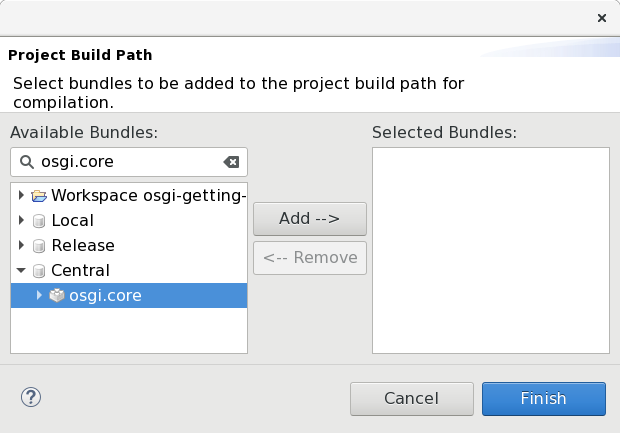
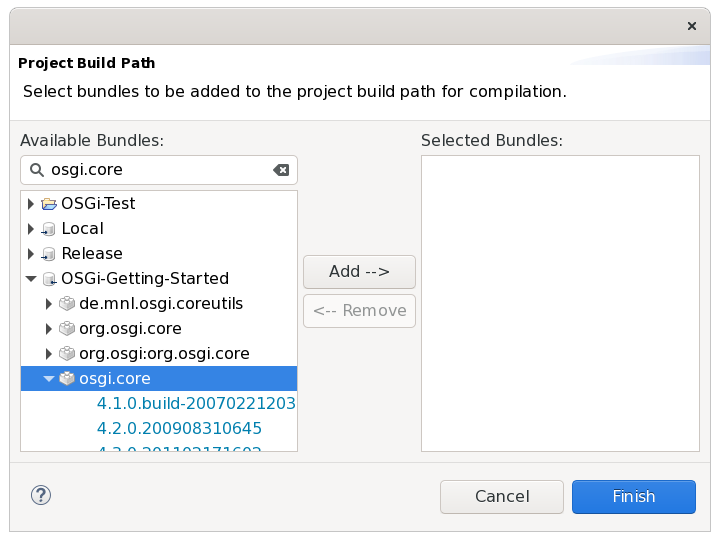
Updates with respect repository usage.

diff --git a/Repositories.md b/Repositories.md
@@ -2,7 +2,7 @@
 layout: default
 title: Repositories
 description: Describes how the OSGi tools make use of repositories and why this is not really compatible with the "Maven way".
-date: 2019-03-28 12:00:00
+date: 2022-01-09 12:00:00
 commentIssue: 15
 ---
 
@@ -82,19 +82,19 @@ repositories: `local`, `release` and `templates`. They are made known to bnd
 in `cnf/build.bnd` by these statements:
 
 ```properties
--plugin.2.Local: \
+-plugin.1.Local: \
 	aQute.bnd.deployer.repository.LocalIndexedRepo; \
 		name = Local; \
 		pretty = true; \
 		local = ${build}/local
 
--plugin.3.Templates: \
+-plugin.2.Templates: \
 	aQute.bnd.deployer.repository.LocalIndexedRepo; \
 		name = Templates; \
 		pretty = true; \
 		local = ${build}/templates
 
--plugin.4.Release: \
+-plugin.3.Release: \
 	aQute.bnd.deployer.repository.LocalIndexedRepo; \
 		name = Release; \
 		pretty = true; \
@@ -111,53 +111,42 @@ can be found in the
 [bndtools documentation](https://bndtools.org/repositories.html#local-indexed-repository).
 
 Another implementation of an OSGi repository that uses an index file is the
-`aQute.bnd.deployer.repository.FixedIndexedRepo`. Bndtools makes no attempt to modify the 
+`aQute.bnd.deployer.repository.osgi.OSGiRepository`. Bndtools makes no attempt to modify the 
 content of such a repository. The index file is specified by a URL, i.e. the data 
 can be kept on a remote server. Again, the configuration options can be found in the 
 [bndtools documentation](https://bndtools.org/repositories.html#fixed-index-repositories).
-We made use of this kind of repository in the following three cases:
+Until 2020 you could make use of such a repository to access the Apache Felix bundles:
 
 ```properties
--plugin.5.de.mnl.osgi: \
-	aQute.bnd.deployer.repository.FixedIndexedRepo; \
-		name=de.mnl.osgi; \
-		locations=https://raw.githubusercontent.com/mnlipp/de.mnl.osgi/master/cnf/release/index.xml; \
-		readonly=true
-
--plugin.6.Felix: \
-	aQute.bnd.deployer.repository.FixedIndexedRepo; \
+-plugin.5.Felix: \
+	aQute.bnd.deployer.repository.osgi.OSGiRepository; \
 		name=Felix; \
 		cache=${workspace}/cnf/cache; \
 		locations=https://felix.apache.org/obr/releases.xml
-
--plugin.7.bndtoolshub: \
-	aQute.bnd.deployer.repository.FixedIndexedRepo; \
-		name=Bndtools Hub; \
-		locations=https://raw.githubusercontent.com/bndtools/bundle-hub/master/index.xml.gz
 ```
 
 In an ideal world (from OSGi's point of view) all freely available bundles would be
 maintained in a "native" repository. Not necessarily using the simple persistence,
 because this could result in a very large index file. Rather, a server would provide
 some remotely accessible implementation of the `Repository` API. In reality, however,
-we only have a few "vendor" maintained[^badly] repositories (such as the "Felix" 
-repository) and some repositories maintained by individual projects (such as my 
-"de.mnl.osgi" repository and -- with a broader scope, but no longer maintained, 
-the "Bndtools Hub").
+there have never been more than a few "vendor" maintained[^badly] repositories 
+(such as the "Felix" repository) and some special purpose repositories maintained by
+individual projects (such as the 
+["Bndtools Hub"](https://github.com/bndtools/bundle-hub)).
 
 [^badly]: Sometimes badly maintained, as you can see 
-	[here](https://github.com/mnlipp/osgi-getting-started/issues/1).
+	[here](https://github.com/mnlipp/osgi-getting-started/issues/1)
+	and [here](https://www.mail-archive.com/users@felix.apache.org/msg18533.html).
 
 ## OSGi views on Maven repositories
 
 Today's Java development is Maven Central centric[^sorry]. No matter whether
 a project uses Maven or some other tool like Gradle for project management,
 (almost) everybody makes Java Open Source Software artifacts available on
-Maven Central (or [jCenter](https://bintray.com/bintray/jcenter)) and downloads
-required libraries from there using their Maven coordinates. As mentioned 
-before, the deficiency from an OSGi's point of view is that Maven repositories 
-do not provide the requirements and capabilities based search 
-facility[^osgi-support]. 
+Maven Central and downloads required libraries from there using their Maven 
+coordinates. As mentioned before, the deficiency from an OSGi's point of view 
+is that Maven repositories do not provide the requirements and capabilities 
+based search facility[^osgi-support]. 
 
 [^sorry]: Sorry, couldn't resist.
 
@@ -169,7 +158,7 @@ facility[^osgi-support].
 	look as if it is planned to support it in 
 	[version 3](https://help.sonatype.com/repomanager3/product-information/repository-manager-feature-matrix)
 	any more.
-	  
+
 
 [^relation]: I have no relations with this company except for an account
 	on oss.sonatype.org. It just happens that I found the feature description
@@ -219,7 +208,7 @@ to setup. Here is a sample configuration (details can be found in the
 [bnd documentation](https://bnd.bndtools.org/plugins/maven.html)):
 
 ```properties
--plugin.1.CentralMvn: \
+-plugin.CentralMvn: \
 	aQute.bnd.deployer.repository.wrapper.Plugin; \
 		location = "${build}/cache/wrapper"; \
 		reindex = true, \
@@ -264,7 +253,7 @@ As an example, we can get all Apache Felix artifacts and the artifacts that they
 depend on with a Bnd POM Repository configured like this:
 
 ```properties
--plugin.6.Felix: \
+-plugin.Felix: \
     aQute.bnd.repository.maven.pom.provider.BndPomRepository; \
         name=Felix; \
     	snapshotUrls=https://oss.sonatype.org/content/repositories/snapshots/; \
@@ -277,7 +266,7 @@ have changed the group id in later versions, so in order to get everything, we
 have to query using the artifact id.
 
 ```properties
--plugin.7.Equinox = \
+-plugin.Equinox = \
     aQute.bnd.repository.maven.pom.provider.BndPomRepository; \
         name=Equinox; \
     	snapshotUrls=https://oss.sonatype.org/content/repositories/snapshots/; \
@@ -285,13 +274,14 @@ have to query using the artifact id.
         query='q=a:%22org.eclipse.osgi%22&rows=10000'
 ```
 
-I have personally experienced two problems with this plugin. The first is that
-it doesn't refresh properly. I'm not sure about the state of the 
-[related issue](https://github.com/bndtools/bnd/pull/2114), but at least in
-3.5.0 this hasn't been fixed yet.
-
-The second problem is that the search works only with Maven Central, which means
+I have personally experienced two problems with this plugin. The first is 
+that the search works only with Maven Central, which means
 that it won't include snapshots of artifacts.
+
+The second problem (I found out about that at the beginning of 2022) 
+is that maven central doesn't support a `rows` parameter 
+greater 200 any more (and the plugin doesn't support pagination). So for
+the example queries above it has become useless.
 
 ### Indexed Maven Repository Plugin
 

diff --git a/UsingAService.md b/UsingAService.md
@@ -85,7 +85,7 @@ Focusing on the Eclipse GUI (Bndtools), an easy way is outlined in its [FAQ](htt
 
 [^ws]: Not to be confused with the Eclipse workspace. The default layout puts `cnf` as a top level project in your Eclipse workspace. However, the only real restriction is that `cnf` must be a sibling of the (bnd) OSGi projects under development. The layout for this introduction uses a [top level](https://github.com/mnlipp/osgi-getting-started) (gradle nature only) project, with `cnf` and the sample bundle projects as children. 
 
-Provided that the bundles that you want to add are maintained in some remote repository<a name="add-repo"></a>, a better approach is to add this (remote) repository to the list of repositories that are searched for bundles. Such a list is maintained in `build.bnd` (in the `cnf` project). When introducing the bndtools plugin for Eclipse, you copied the `build.bnd` that I prepared for this tutorial into your project. It defines several remote repositories.
+Provided that the bundles that you want to add are maintained in some remote repository<a name="add-repo"></a>, a better approach is to add this (remote) repository to the list of repositories that are searched for bundles. Such a list is maintained in `build.bnd` (in the `cnf` project). When introducing the bndtools plugin for Eclipse, an initial version of  `build.bnd` was created and you added an additional entry.
 
 ```properties
 -plugin.1.Local: \
@@ -94,49 +94,38 @@ Provided that the bundles that you want to add are maintained in some remote rep
 		local=${workspace}/cnf/localrepo; \
 		pretty=true
 
--plugin.2.Templates: \
-	aQute.bnd.deployer.repository.LocalIndexedRepo; \
-		name = Templates; \
-		pretty = true; \
-		local = ${build}/templates
-
--plugin.3.Release: \
+-plugin.2.Release: \
 	aQute.bnd.deployer.repository.LocalIndexedRepo; \
 		name=Release; \
 		local=${workspace}/cnf/release; \
 		pretty=true
 
--plugin.4.Central:  \
-	aQute.bnd.repository.maven.pom.provider.BndPomRepository; \
-		releaseUrls=https://repo1.maven.org/maven2/; \
-		pom=${.}/pom.xml; \
-		name=Central
-
--plugin.5.Felix = \
-	aQute.bnd.repository.maven.pom.provider.BndPomRepository; \
-		name=Felix; \
-		readOnly=true; \
-		snapshotUrls=https://oss.sonatype.org/content/repositories/snapshots/; \
-		releaseUrls=https://repo1.maven.org/maven2; \
-		query='q=g:%22org.apache.felix%22&rows=10000'
+-plugin.3.OSGIGettingStarted: \
+	aQute.bnd.repository.osgi.OSGiRepository;\
+		name="OSGi-Getting-Started";\
+		locations=https://raw.githubusercontent.com/mnlipp/osgi-getting-started/master/cnf/indexed-maven/index.xml
 ```
 
-There is also a repository GUI view that reflects this configuration.
+There is also the repository GUI view that reflects this configuration.
 
-![Adding a repository](images/Repository-view.png){: width="350px" }
+![Adding a repository](images/Initial-Repositories.png){: width="350px" }
 
 As you can see in the screenshot, the edit buttons are disabled. In previous versions of Bndtools (before 3.2.0) you could use them to add a repository. Currently, you have to edit `build.bnd` in the source view and add:
 
 ```properties
--plugin.6.de.mnl.osgi: \
+-plugin.4.de.mnl.osgi: \
 	aQute.bnd.repository.maven.pom.provider.BndPomRepository; \
 		name=de.mnl.osgi; \
 		readOnly=true; \
 		releaseUrls=https://repo1.maven.org/maven2; \
-		query='q=g:%22de.mnl.osgi%22&rows=10000'
+		query='q=g:%22de.mnl.osgi%22&rows=200'
 ```
 
-After this change, go back to the "Run" tab of the project's `bnd.bnd` editor. Use the plus icon to add the bundles `de.mnl.osgi.osgi2jul` and `de.mnl.osgi.coreutils` to the "Run bundles".
+After this change[^notNeeded], go back to the "Run" tab of the project's `bnd.bnd` editor. Use the plus icon to add the bundles `de.mnl.osgi.osgi2jul` and `de.mnl.osgi.coreutils` to the "Run bundles".
+
+[^notNeeded]: To be honest, adding this repository isn't necessary because the
+	bundles are already also in the "OSGi-Getting-Started" repository. But this was
+	a good opportunity to demonstrate how these things are done.
 
 ![Adding the osgi2jul bundle](images/Adding-fwd2jul.png){: width="450px" }
 

diff --git a/Bndtools.md b/Bndtools.md
@@ -58,20 +58,36 @@ going to need the repository in several projects, so we add it in the
 configuration project's `cnf/build.bnd`.
 
 We'll have a detailed look at repositories later. For now you should simply
-copy the files `build.bnd` and `pom.xml` from the 
-[sample project](https://github.com/mnlipp/osgi-getting-started/tree/master/cnf) 
-into the `cnf/` directory, switch to the Bndtools perspective and choose 
-"Bndtools/Refresh Repositories" from the menu (or click on the refresh button
-at the top of the "Repositories" view). 
+add the following lines:
+
+```properties
+-plugin.3.OSGIGettingStarted: \
+-plugin.3.OSGIGettingStarted: \
+	aQute.bnd.repository.osgi.OSGiRepository;\
+		name="OSGi-Getting-Started";\
+		locations=https://raw.githubusercontent.com/mnlipp/osgi-getting-started/master/cnf/indexed-maven/index.xml
+```
+
+Switch to the Bndtools perspective and choose "Bndtools/Refresh Repositories" 
+from the menu (or click on the refresh button at the top of the 
+"Repositories" view). 
+
+![Updated Repositories](images/Initial-Repositories.png){: width="300px" }
+
+The top entry has the name of your Eclipse workspace and may vary. There must 
+be a lot of entries in "OSGI-Getting-Started". I found that sometimes the refresh
+is not sufficient and that it is necessary to restart Eclipse once more to get the
+full list of entries.
+
 When you go back to `Activator.java` and look at the quick fix proposals for the
-error at the import statement, it offers to "Add bundle 'osgi.core' to Bnd
-build path'. Do this. It will fix all errors. 
+error at the import statement, it offers to "Add osgi.core to -buildpath 
+(found org.osgi.framework.BundleActivator)". Do this. It will fix all errors. 
 
 As an alternative to using the quick fix, open `bnd.bnd` and 
 select the "Build" tab. In the "Build Path sub-window use "+" to add `osgi.core`
 (use the search field to find the bundle in the repositories). 
 
-![Add from Repository](images/AddFromRepoQuery.png){: width="370px" }
+![Add from Repository](images/AddFromRepoQuery.png){: width="400px" }
 
 Click "Finish" and the osgi.core bundle shows up in the "Build Path" 
 section of `bnd.bnd`'s "Build Tab".
